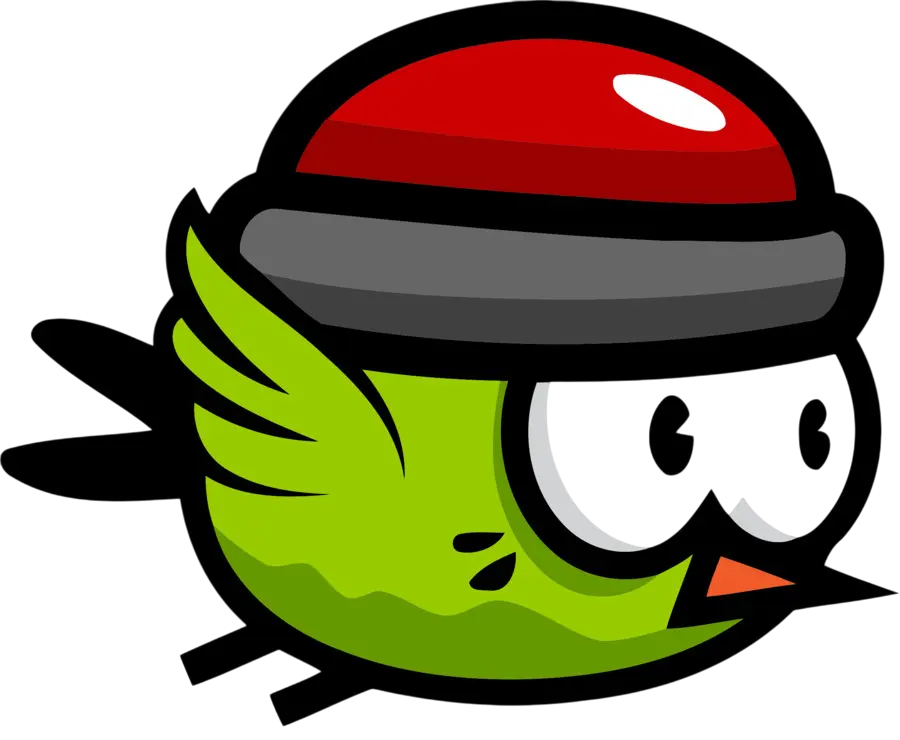
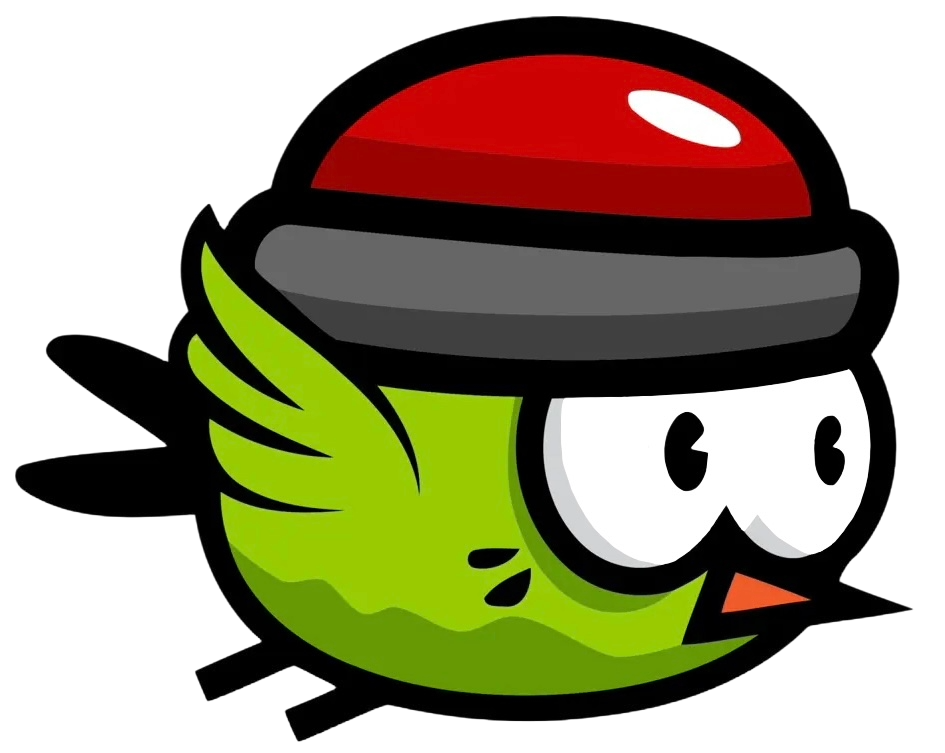
bird switch images and updated to do list

diff --git a/src/game/BirdWorld.java b/src/game/BirdWorld.java
@@ -10,6 +10,7 @@ import java.util.Set;
 
 public class BirdWorld extends World {
     private final Bird bird;
+
     private final PipeFactory pipeFactory = new PipeFactory(this);
     private final HeartFactory heartFactory = new HeartFactory(this);
     private final CoinFactory coinFactory = new CoinFactory(this);
@@ -22,9 +23,22 @@ public class BirdWorld extends World {
             switch (e.getKeyCode()) {
                 case KeyEvent.VK_SPACE: //class KeyEvent
                     bird.setLinearVelocity(new Vec2(0f, 5f));
+                    //switch images when press space
+                    bird.removeAllImages();
+                    bird.addImage(Bird.image2);
                     break;
                 case KeyEvent.VK_SHIFT:
                     bird.setLinearVelocity(new Vec2(15f, 0f));
+                default:
+                    System.out.println("Unhandled key " + e);
+            }
+        }
+        public void keyReleased(KeyEvent e) {
+            switch (e.getKeyCode()) {
+                case KeyEvent.VK_SPACE:
+                    //switch images when release space
+                    bird.removeAllImages();
+                    bird.addImage(Bird.image);
                 default:
                     System.out.println("Unhandled key " + e);
             }

diff --git a/src/game/Bird.java b/src/game/Bird.java
@@ -10,7 +10,8 @@ import org.jbox2d.common.Vec2;
 
 public class Bird extends Walker {
     private static final Shape shape = new PolygonShape(-2.02f, 0.43f, -2.13f, -0.23f, -0.83f, -1.94f, -0.21f, -1.95f, 2.11f, -0.83f, 2.05f, 0.91f, 0.96f, 1.94f, -0.78f, 1.57f);
-    private static final BodyImage image = new BodyImage("data/bird.png", 4);
+    public static final BodyImage image = new BodyImage("data/bird.png", 4);
+    public static final BodyImage image2 = new BodyImage("data/bird2.png", 4);
     private int health = 3;
     private int coins = 0;
 
